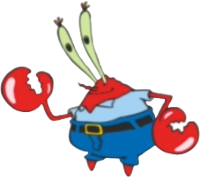
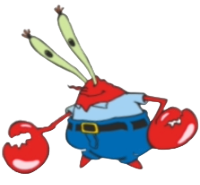
implemented factory pattern

diff --git a/sprites.py b/sprites.py
@@ -1,32 +1,76 @@
 import pygame
-import os
-from settings import *
 import random
-from abc import ABC, abstractmethod
+from settings import *
 
+player_images = [pygame.image.load(f'media/mr_krabs{i}.png') for i in range(4)]
+enemy_image = pygame.image.load('media/fish.png')
+burger_image = pygame.image.load('media/burger.png')
+blocker_image = pygame.image.load('media/plankton.png')
+power_up_images = {
+    'score_boost': pygame.image.load('media/boost.png'),
+    'ammo_boost': pygame.image.load('media/boost.png'),
+    'health_boost': pygame.image.load('media/boost.png'),
+}
 
+# Abstract Factory Interface
+class SpriteFactory:
+    @staticmethod
+    def create_player():
+        raise NotImplementedError
 
+    @staticmethod
+    def create_enemy():
+        raise NotImplementedError
+
+    @staticmethod
+    def create_burger(x, y):
+        raise NotImplementedError
+
+    @staticmethod
+    def create_power_up(power_up_type, x, y):
+        raise NotImplementedError
+
+# Concrete Factory
+class GameSpriteFactory(SpriteFactory):
+    @staticmethod
+    def create_player(*args, **kwargs):
+        return Player(player_images=player_images, speed=PLAYER_SPEED, *args, **kwargs)
+
+    @staticmethod
+    def create_enemy(*args, **kwargs):
+        return Enemy(enemy_image=enemy_image, speed=ENEMY_SPEED, *args, **kwargs)
+
+    @staticmethod
+    def create_burger(x, y, *args, **kwargs):
+        return Burger(x, y, burger_image=burger_image, *args, **kwargs)
+
+    @staticmethod
+    def create_power_up(power_up_type, x, y, *args, **kwargs):
+        return PowerUp(power_up_type, x, y, power_up_images=power_up_images, *args, **kwargs)
+
+    @staticmethod
+    def create_blocker(player_x, top, bottom, *args, **kwargs):
+        return Blocker(player_x, top, bottom, blocker_image=blocker_image, *args, **kwargs)
 
 # Player class
+
 class Player(pygame.sprite.Sprite):
-    def __init__(self):
-        super().__init__()
-        # Load all the animation frames
-        self.animation_frames = [player_img, player_throw_img1, player_throw_img2, player_throw_img3, player_throw_img4]
+    def __init__(self, player_images, speed, *args, **kwargs):
+        super().__init__(*args, **kwargs)
+        self.animation_frames = player_images
         self.current_frame = 0
         self.animating = False
         self.animation_speed = 100  # milliseconds per frame
         self.last_update = pygame.time.get_ticks()
-
         self.image = self.animation_frames[self.current_frame]
         self.rect = self.image.get_rect(midbottom=(SCREEN_WIDTH // 2, SCREEN_HEIGHT - 10))
-        self.speed = PLAYER_SPEED
+        self.speed = speed
         self.health = 100
         self.score = 0
         self.ammo = 10  # Player starts with 10 ammunition
         self.ammo_boost_active = False
         self.ammo_boost_end_time = 0
-        
+
     def start_animation(self):
         self.animating = True
         self.current_frame = 0  # Start from the first frame
@@ -53,7 +97,6 @@ class Player(pygame.sprite.Sprite):
             self.rect.x += self.speed
         if keys is None:
             keys = pygame.key.get_pressed()
-        # Keep the player on the screen
         if self.rect.left < 0:
             self.rect.left = 0
         if self.rect.right > SCREEN_WIDTH:
@@ -61,87 +104,61 @@ class Player(pygame.sprite.Sprite):
         if self.ammo_boost_active and pygame.time.get_ticks() > self.ammo_boost_end_time:
             self.ammo_boost_active = False
 
-
 # Enemy class
-
 class Enemy(pygame.sprite.Sprite):
-    def __init__(self):
-        super().__init__()
-        # Decide the starting side (left or right)
+    def __init__(self, enemy_image, speed, *args, **kwargs):
+        super().__init__(*args, **kwargs)
         starting_side = random.choice(['left', 'right'])
-        
-        # Load the original image and flip it if necessary
         self.original_image = enemy_img
         self.image = pygame.transform.flip(self.original_image, True, False) if starting_side == 'left' else self.original_image
         self.rect = self.image.get_rect()
-
-        # Set the initial x position and direction based on the starting side
         if starting_side == 'left':
-            self.rect.x = -self.rect.width  # Start off-screen to the left
-            self.direction = 1  # Move to the right
+            self.rect.x = -self.rect.width
+            self.direction = 1
         else:
-            self.rect.x = SCREEN_WIDTH  # Start off-screen to the right
-            self.direction = -1  # Move to the left
-
-        # Randomly choose the vertical position
+            self.rect.x = SCREEN_WIDTH
+            self.direction = -1
         self.rect.y = random.randint(0, SCREEN_HEIGHT - self.rect.height)
         self.speed = ENEMY_SPEED
 
     def update(self):
-        # Move horizontally at a constant speed
         self.rect.x += self.speed * self.direction
-        
-        # Remove the sprite when it moves off the screen
         if self.rect.right < 0 or self.rect.left > SCREEN_WIDTH:
-            self.kill()  # Remove the enemy
-            return True  # Indicate that an enemy has reached the edge
+            self.kill()
+            return True
         return False
 
-class Blocker(pygame.sprite.Sprite):
-    def __init__(self, player_x, shooting_area):
-        super().__init__()
-        self.image = blocker_img
-        self.rect = self.image.get_rect(center=(player_x, random.randint(shooting_area['top'], shooting_area['bottom'])))
-        self.mask = pygame.mask.from_surface(self.image)  # Erstellen der Maske aus dem Bild
-        self.spawn_time = pygame.time.get_ticks()  # Record the spawn time
-
-    def update(self):
-        current_time = pygame.time.get_ticks()
-        if current_time - self.spawn_time > 10000:  # 10 seconds in milliseconds
-            self.kill()  # Despawn the blocker
-
-
-
-# Make sure the burger's update method moves it upwards
+# Burger class
 class Burger(pygame.sprite.Sprite):
-    def __init__(self, x, y):
-        super().__init__()
-        self.image = burger_img
+    def __init__(self, x, y, burger_image, *args, **kwargs):
+        super().__init__(*args, **kwargs)
+        self.image = burger_image
         self.rect = self.image.get_rect(center=(x, y))
-        self.mask = pygame.mask.from_surface(self.image)  # Erstellen der Maske aus dem Bild
+
     def update(self):
-        # Move the burger upwards
         self.rect.y -= 5
-        # Remove the burger if it moves off the top of the screen
         if self.rect.bottom < 0:
             self.kill()
 
-# Power-up class
+# PowerUp class
 class PowerUp(pygame.sprite.Sprite):
-    def __init__(self, power_up_type, x, y):
-        super().__init__()
-        attributes = POWER_UPS_ATTRIBUTES[power_up_type]
+    def __init__(self, power_up_type, x, y, power_up_images, *args, **kwargs):
+        super().__init__(*args, **kwargs)
         self.type = power_up_type
-        self.image = pygame.image.load(attributes['image'])
+        self.image = power_up_images[power_up_type]
         self.rect = self.image.get_rect(center=(x, y))
-        self.effect = attributes['effect']
-        self.half_width = self.image.get_width() // 2  # Half-width of the power-up image
+        self.effect = POWER_UPS_ATTRIBUTES[power_up_type]['effect']
         self.spawn_time = pygame.time.get_ticks()
 
-        
     def update(self):
         current_time = pygame.time.get_ticks()
         if current_time - self.spawn_time > 4000:  # 4000 milliseconds = 4 seconds
-            self.kill()  # Remove the power-up after 3 seconds
-    
+            self.kill()
 
+class Blocker(pygame.sprite.Sprite):
+    def __init__(self, player_x, top, bottom, blocker_image, *args, **kwargs):
+        super().__init__(*args, **kwargs)
+        self.image = blocker_image
+        self.rect = self.image.get_rect(center=(player_x, random.randint(top, bottom)))
+        self.mask = pygame.mask.from_surface(self.image)
+        self.spawn_time = pygame.time.get_ticks()

diff --git a/Main.py b/Main.py
@@ -8,6 +8,7 @@ import time
 from datetime import datetime
 from settings import *
 from sprites import *
+from sprites import GameSpriteFactory
 
 running = True
 # Initialize pygame
@@ -50,7 +51,7 @@ throw_sound = pygame.mixer.Sound(THROW_SOUND)
 screen = pygame.display.set_mode((SCREEN_WIDTH, SCREEN_HEIGHT))
 pygame.display.set_caption("Krabs' Burger-Battle: Die Geldfischjagd")
 
-player_height = player_img.get_height()  # Assuming player_img is the player's sprite image
+player_height = player_images[0].get_height() # Assuming player_img is the player's sprite image
 buffer_zone = 10  # Additional buffer zone where power-ups should not spawn
 
 shooting_area = {
@@ -189,7 +190,7 @@ def show_start_screen(screen):
 def spawn_enemies(enemy_group, blocker_group, player_rect, shooting_area):
     try:
         if random.randint(1, ENEMY_SPAWN_RATE) == 1:
-            enemy = Enemy()
+            enemy = GameSpriteFactory.create_enemy()
             # Adjust spawning position to be above the bottom buffer zone
             enemy.rect.y = random.randint(0, shooting_area['bottom'] - enemy.rect.height)
             enemy_group.add(enemy)
@@ -197,7 +198,7 @@ def spawn_enemies(enemy_group, blocker_group, player_rect, shooting_area):
         # Add a chance to spawn a blocker instead of an enemy
         if random.randint(1, BLOCKER_SPAWN_RATE) == 1:
             # Spawn the blocker at the player's x position within the shooting area
-            blocker = Blocker(player_rect.centerx, shooting_area)
+            blocker = GameSpriteFactory.create_blocker(player_rect.centerx, shooting_area['top'], shooting_area['bottom'])
             blocker_group.add(blocker)
     except Exception as e:
         exc_type, exc_obj, exc_tb = sys.exc_info()
@@ -228,7 +229,7 @@ def spawn_power_ups(power_up_group, player_rect, shooting_area):
         while abs(y - player_rect.y) < 100:
             y = random.randint(shooting_area['top'] + half_height, shooting_area['bottom'] - half_height)
 
-        power_up = PowerUp(power_up_type, x, y)
+        power_up = GameSpriteFactory.create_power_up(power_up_type, x, y)
         power_up_group.add(power_up)
 
 
@@ -402,7 +403,7 @@ def main_game(player_name):
         global current_wave, in_between_waves, wave_start_time, running
 
         clock = pygame.time.Clock()
-        player = Player()
+        player = GameSpriteFactory.create_player()
         players = pygame.sprite.Group()
         players.add(player)
         enemies = pygame.sprite.Group()
@@ -424,7 +425,7 @@ def main_game(player_name):
                     if event.key == pygame.K_SPACE:
                         if player.ammo > 0:
                             player.start_animation()
-                            burger = Burger(player.rect.centerx, player.rect.top)
+                            burger = GameSpriteFactory.create_burger(player.rect.centerx, player.rect.top)
                             burgers.add(burger)
                             player.ammo -= 1
                             throw_sound.play()

diff --git a/settings.py b/settings.py
@@ -4,10 +4,10 @@ SCREEN_WIDTH = 1000
 SCREEN_HEIGHT = 563
 PLAYER_SPEED = 5
 ENEMY_SPAWN_RATE = 200  # Lower number means more frequent spawns
-POWER_UP_RATE = 2000    # Lower number means more frequent power-ups
+POWER_UP_RATE = 200    # Lower number means more frequent power-ups
 SCORE_MULTIPLIER = 2   # For X2-Boost power-up
 ENEMY_SPEED = 1
-BLOCKER_SPAWN_RATE = 1090 
+BLOCKER_SPAWN_RATE = 1000 
 
 # Define a constant for how much the enemy spawn rate should increase with each wave
 ENEMY_SPAWN_INCREMENT = 10  # This means with each wave, the spawn rate will increase by 10
@@ -57,14 +57,7 @@ POWER_UPS_ATTRIBUTES = {
 
 }
 
-player_throw_img1 = pygame.image.load('media/mr_krabs2.png')
-player_throw_img2 = pygame.image.load('media/mr_krabs3.png')
-player_throw_img3 = pygame.image.load('media/mr_krabs4.png')
-player_throw_img4 = pygame.image.load('media/mr_krabs5.png')
-                                                          
-
 # Load game assets
-player_img = pygame.image.load('media/mr_krabs.png')
 enemy_img = pygame.image.load('media/fish.png')
 burger_img = pygame.image.load('media/burger.png')
 background_img = pygame.image.load('media/bikini_bottom.png')
